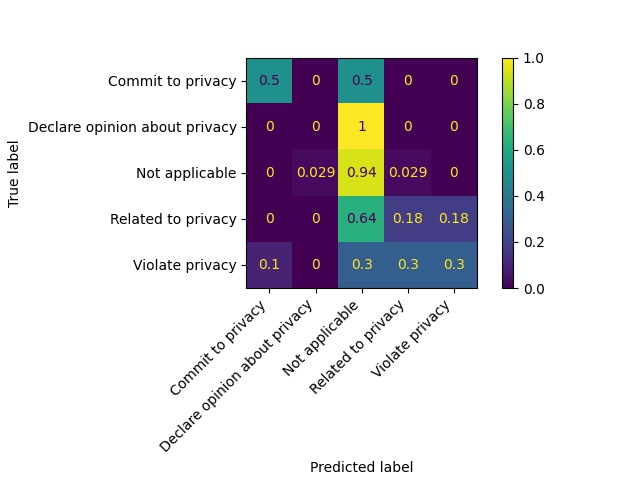
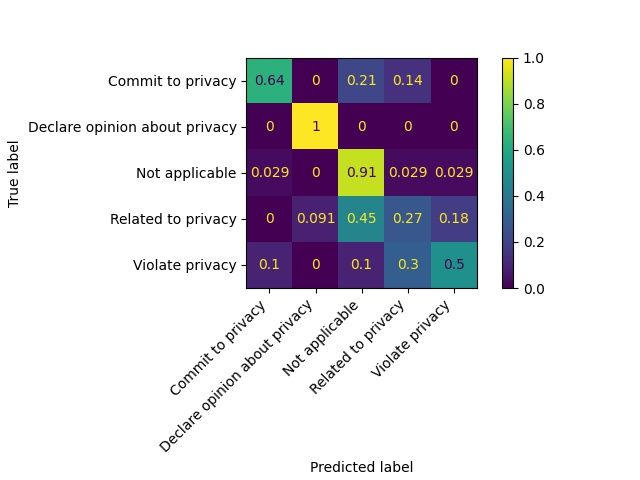
svc test set

diff --git a/AIclassifier.py b/AIclassifier.py
@@ -3,9 +3,8 @@ from sklearn.ensemble import AdaBoostClassifier
 from sklearn.model_selection import GridSearchCV
 from imblearn.under_sampling import RandomUnderSampler 
 from imblearn.over_sampling import SMOTE
-from sklearn.linear_model import LinearRegression
-from sklearn.linear_model import RidgeClassifier
-from sklearn.linear_model import SGDClassifier
+from sklearn.linear_model import LinearRegression,SGDClassifier, RidgeClassifier
+from sklearn.svm import LinearSVC
 from sklearn.preprocessing import StandardScaler
 from sklearn.pipeline import make_pipeline
 
@@ -238,7 +237,8 @@ test_labels_primary = create_labels_array(labels_test)
 #lin_reg = LinearRegression() # it is not discrete!!
 # RIDGE REGRESSION CLASSIFIER
 #ridge_classifier = RidgeClassifier()
-sgd_classifier = make_pipeline(StandardScaler(),SGDClassifier(max_iter=1000, tol=1e-3))#, random_state=1111111))
+#sgd_classifier = make_pipeline(StandardScaler(),SGDClassifier(max_iter=1000, tol=1e-3))#, random_state=1111111))
+svc_classifier = make_pipeline(StandardScaler(), LinearSVC(dual=False,random_state=None, tol=1e-5))
 
 # FLAG - CHECK WHICH CONFIGURATIONS SHOULD BE HERE - checked
 
@@ -273,8 +273,8 @@ sgd_classifier = make_pipeline(StandardScaler(),SGDClassifier(max_iter=1000, tol
 #model = adaclassifier.fit(train_matrix_array, train_labels_primary) 
 #model = lin_reg.fit(train_matrix_array, train_labels_primary)
 #model = ridge_classifier.fit(train_matrix_array, train_labels_primary)
-model = sgd_classifier.fit(train_matrix_array, train_labels_primary)
-
+#model = sgd_classifier.fit(train_matrix_array, train_labels_primary)
+model = svc_classifier.fit(train_matrix_array, train_labels_primary)
 #importances = model.feature_importances_
 
 #for i,(token,value) in enumerate(zip(words_to_numbers, importances)):
@@ -325,7 +325,7 @@ create_confusion_matrix(test_list, pred_list, None, path, labels, display_labels
 path='output/AI Classifier/1labelPredictionsStatsTest.txt'
 os.makedirs(os.path.dirname(path), exist_ok=True)
 with open(path, 'w') as file:
-    print("Performance measures - Unigram Dictionary - SGD\n", file=file)
+    print("Performance measures - Unigram Dictionary - SVC\n", file=file)
     #print("Performance measures - Mixed Dictionary - Adaboost\n", file=file)
     #print("Performance measures - Bigram Dictionary\n", file=file)
 #write_output_stats_file(path, "Mixed", test_labels_primary, predictions, labels)
